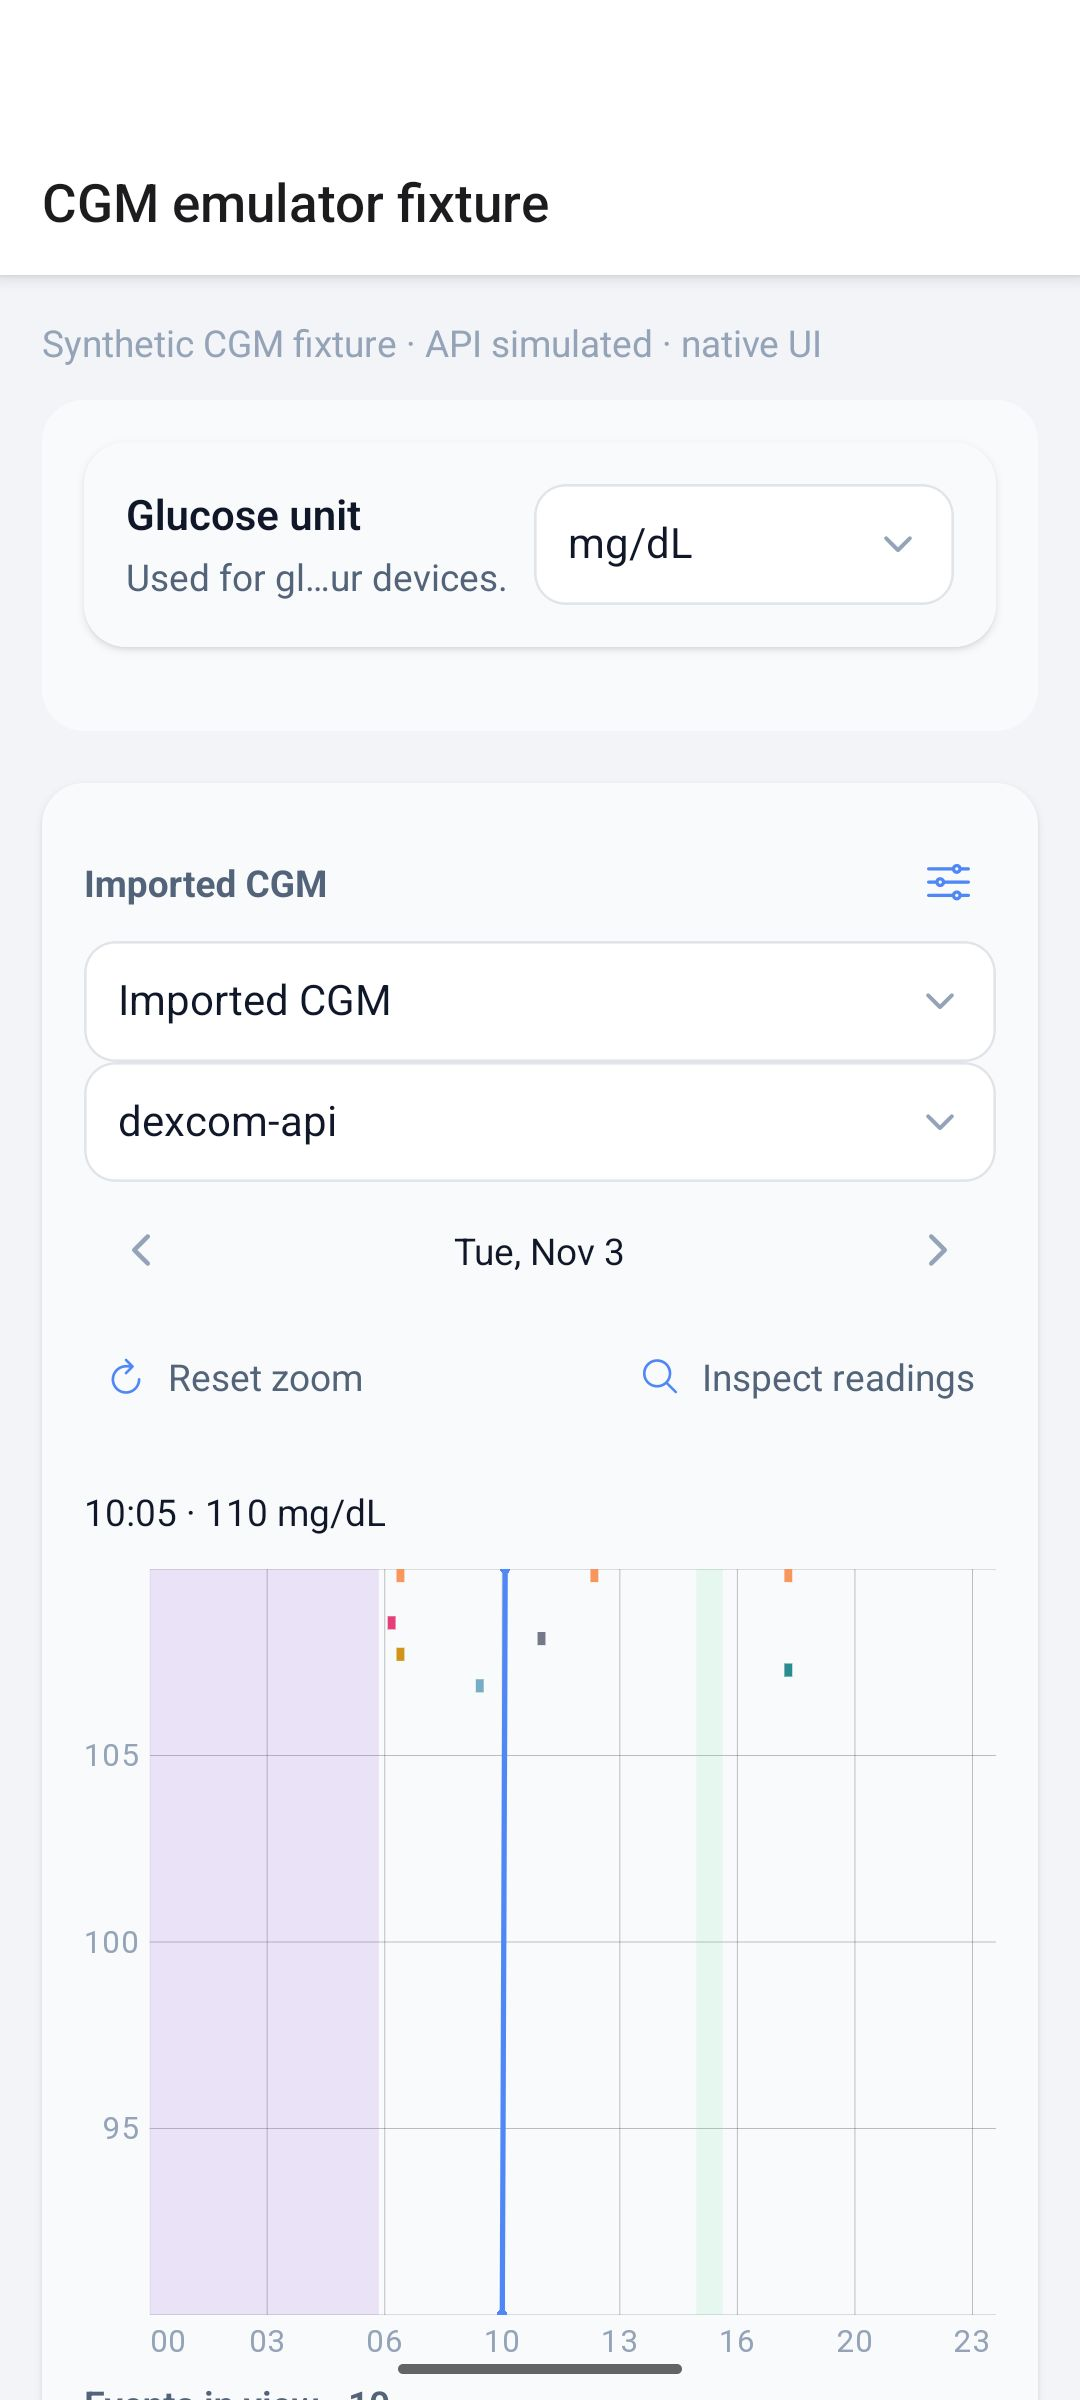
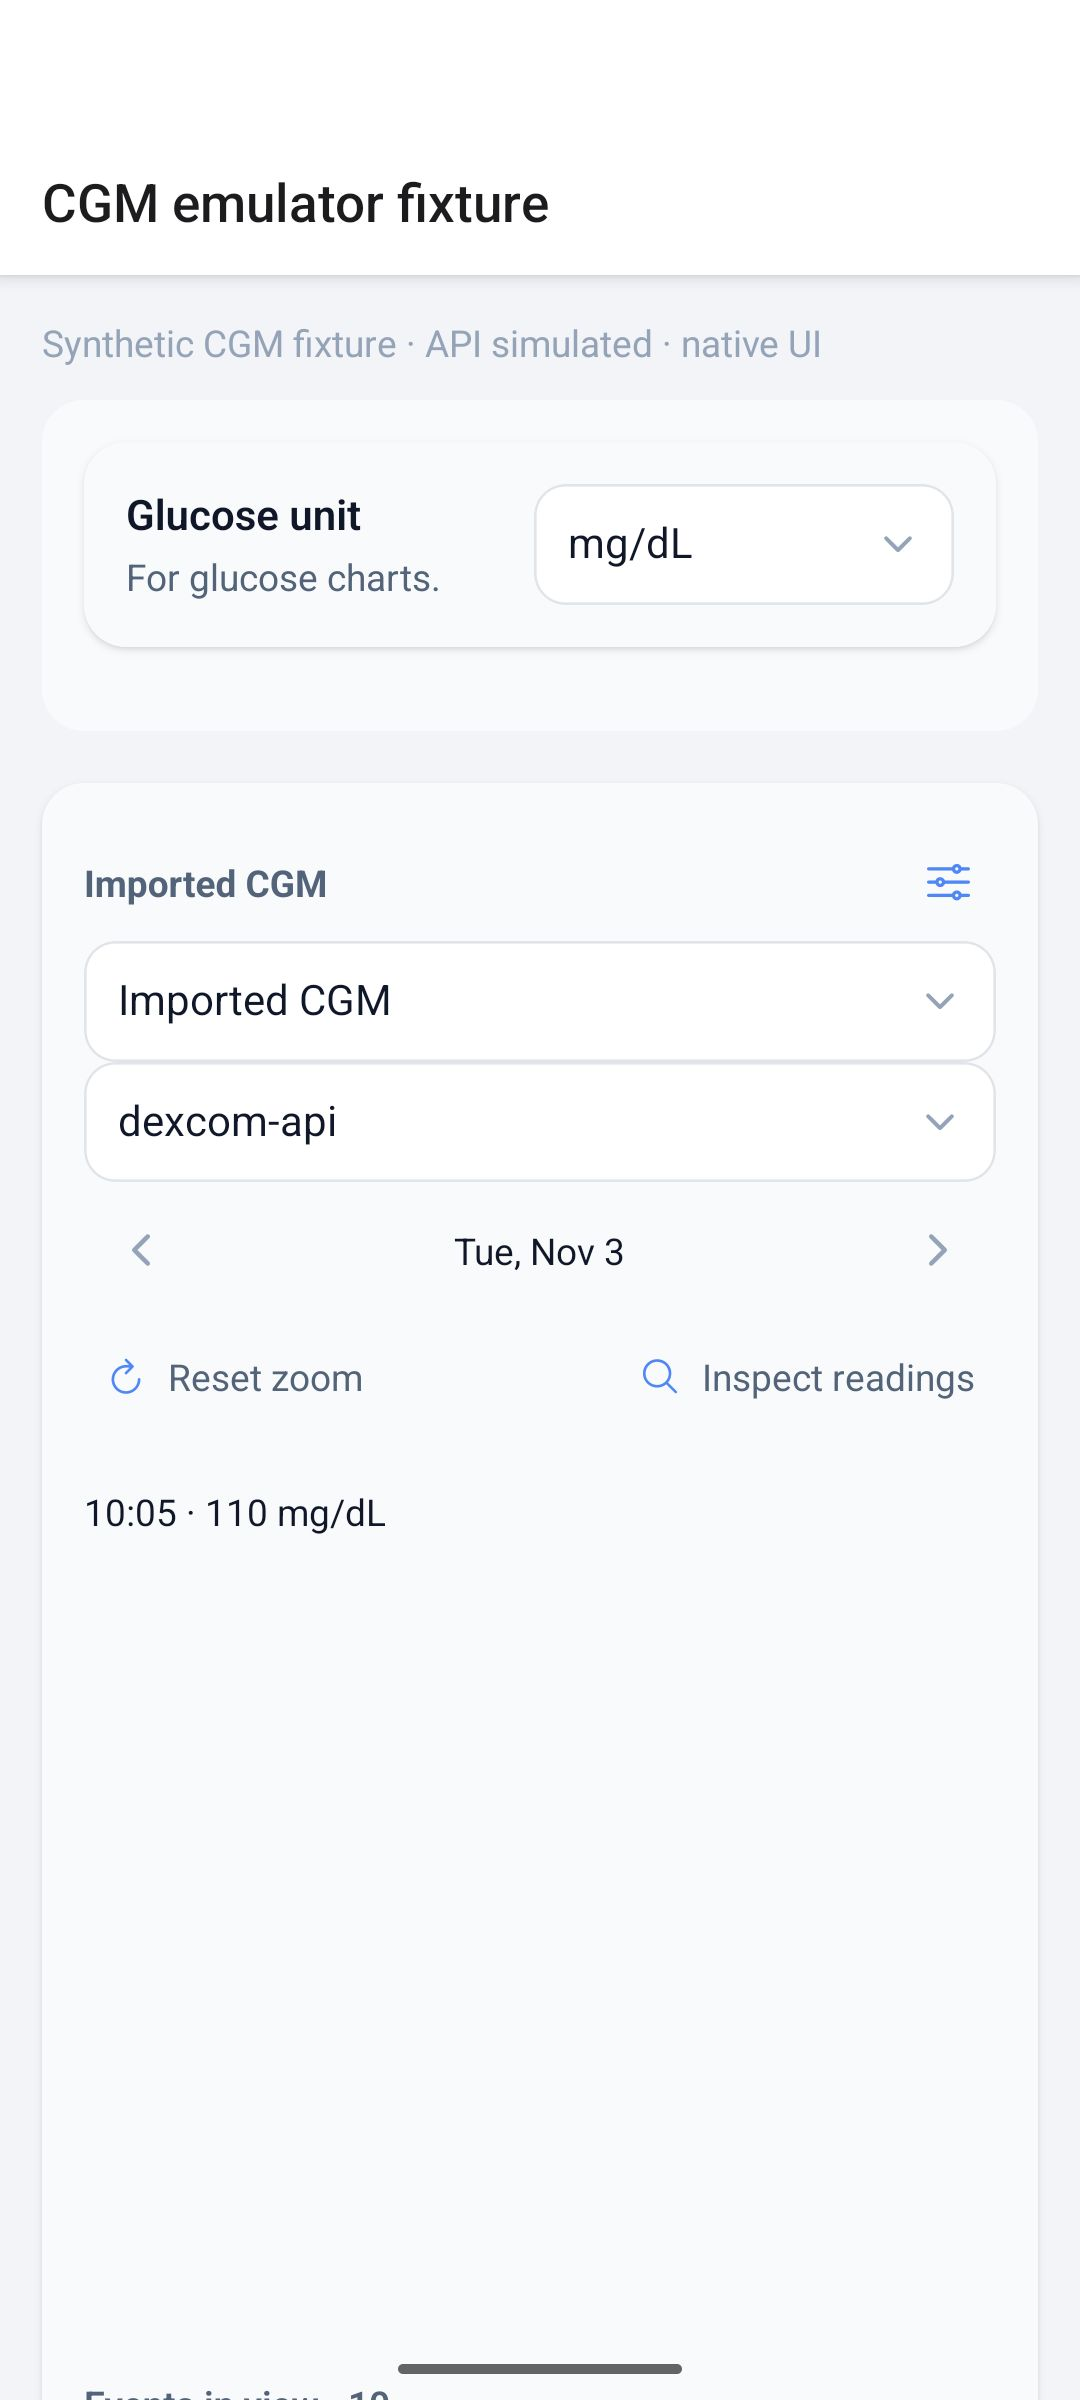
docs: refresh native glucose screenshots with the readable setting

diff --git a/.github/cgm-review/README.md b/.github/cgm-review/README.md
@@ -1,0 +1,9 @@
+# Glucose UI validation proof
+
+All screenshots use synthetic health data.
+
+Native Android screenshots: Pixel 6 emulator, API 35, real React Native controls and Victory/Skia drawing. Built from feature source `06c9234d233eebee10a11893866b976124ababea` (includes the shortened setting subtitle). Six native UI checks passed: https://github.com/p1ranha/SparkyFitness/actions/runs/42259070604 .
+
+API/connectivity boundaries are fixtures; preference retention in the fixture is AsyncStorage. Actual database persistence and access isolation were tested separately. These screenshots do not establish a real Dexcom/HealthKit or Health Connect import.
+
+Web screenshots show the actual web components with synthetic data. The circled settings image highlights the added glucose-unit preference.
